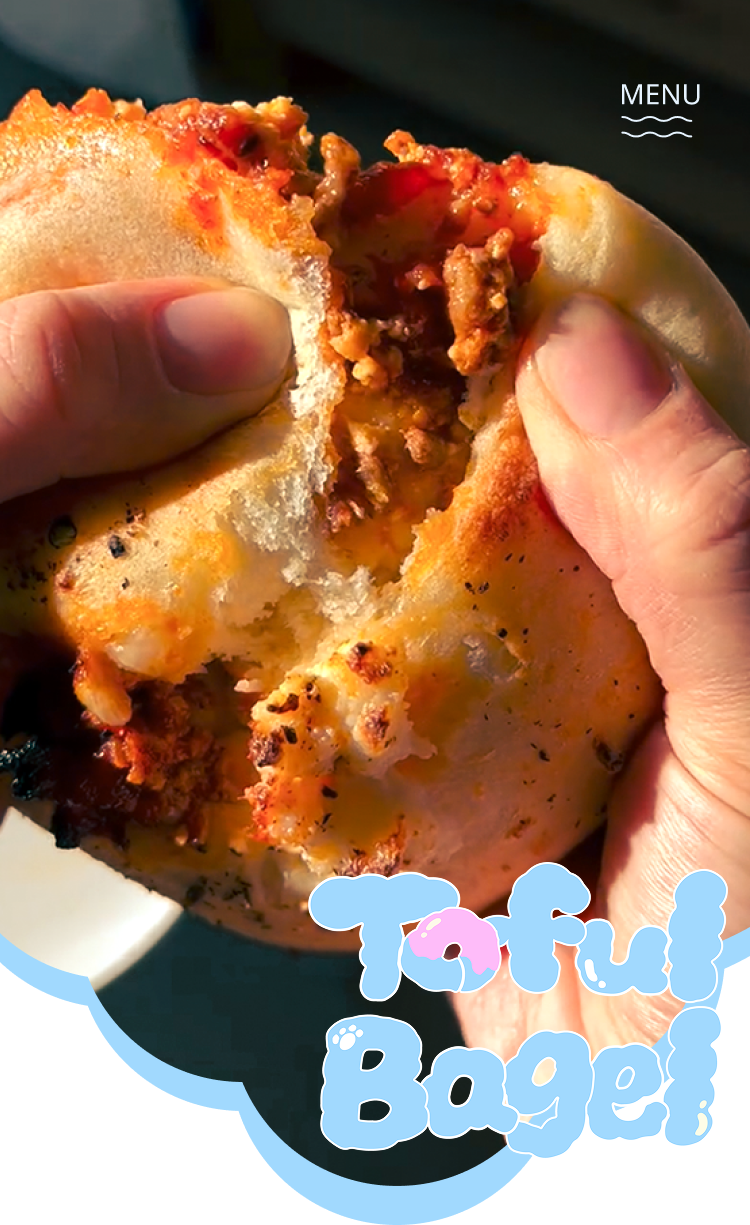
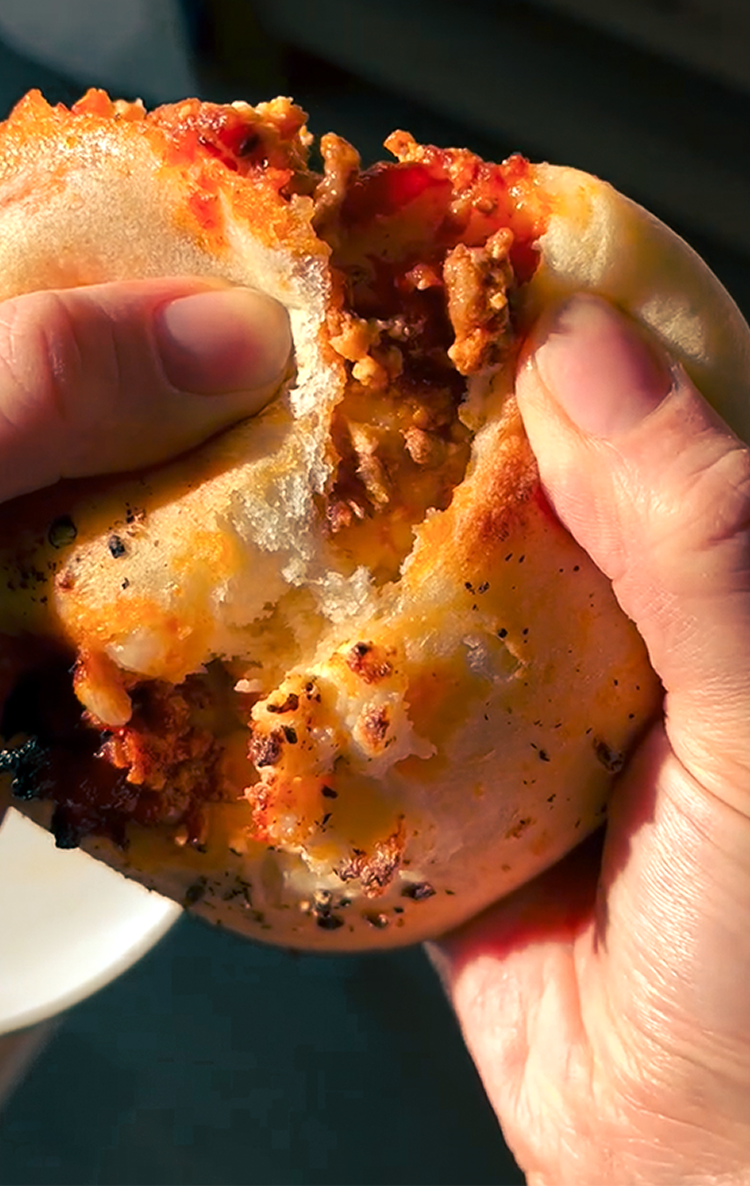
mv almost fix

diff --git a/luca/scss/style.scss b/luca/scss/style.scss
@@ -111,9 +111,17 @@ section{
 // Base styles
 
 header{
-  .mv{
-    margin-bottom: 4em;
-  }
+.mask {
+  width: 100%;
+  height: auto;
+  -webkit-clip-path: url(#svgPath);
+  clip-path: url(#svgPath);
+  object-fit: cover;
+}
+
+.shape {
+  height: 0; // hide the SVG visually
+}
 }
 
 //introduction
@@ -123,9 +131,9 @@ header{
   &::before {
     content: "";
     position: absolute;
-    top: -110px;
-    left: -70px;
-    width: 90%;
+    top: -190px;
+    left: -30px;
+    width: 230px;
     height: 100px;
     background: url('../img/intro_fuwa.png') no-repeat center center;
     background-size: contain;
@@ -135,10 +143,10 @@ header{
   &::after {
     content: "";
     position: absolute;
-    top: -110px;
-    right: -100px;
-    width: 90%;
-    height: 120px;
+    top: -100px;
+    right: -40px;
+    width: 207px;
+    height: 80px;
     background: url('../img/intro_mochi.png') no-repeat center center;
     background-size: contain;
     z-index: 10;

diff --git a/luca/css/style.css b/luca/css/style.css
@@ -79,8 +79,15 @@ section {
 		display: block;
 }
 
-header .mv {
-		margin-bottom: 4em;
+header .mask {
+		width: 100%;
+		height: auto;
+		clip-path: url(#svgPath);
+		-o-object-fit: cover;
+		   object-fit: cover;
+}
+header .shape {
+		height: 0;
 }
 
 .intro_outer {
@@ -89,9 +96,9 @@ header .mv {
 .intro_outer::before {
 		content: "";
 		position: absolute;
-		top: -110px;
-		left: -70px;
-		width: 90%;
+		top: -190px;
+		left: -30px;
+		width: 230px;
 		height: 100px;
 		background: url("../img/intro_fuwa.png") no-repeat center center;
 		background-size: contain;
@@ -100,10 +107,10 @@ header .mv {
 .intro_outer::after {
 		content: "";
 		position: absolute;
-		top: -110px;
-		right: -100px;
-		width: 90%;
-		height: 120px;
+		top: -100px;
+		right: -40px;
+		width: 207px;
+		height: 80px;
 		background: url("../img/intro_mochi.png") no-repeat center center;
 		background-size: contain;
 		z-index: 10;

diff --git a/luca/index2.html b/luca/index2.html
@@ -33,7 +33,15 @@
 
 <body>
     <header>
-        <h1><img class="mv" src="img/mv.png" alt="toful_bagle" ></h1>
+<img class="mask" src="img/mv.png" alt="Toful Bagel">
+
+<svg class="shape" viewBox="0 0 750 1187.5" xmlns="http://www.w3.org/2000/svg">
+  <clipPath id="svgPath" clipPathUnits="objectBoundingBox">
+    <!-- Rescaled path: MUST be normalized between 0–1 if using objectBoundingBox -->
+    <path d="M0,0v0.789c0.013,0.007,0.027,0.016,0.043,0.024c0.022,0.009,0.047,0.022,0.073,0.027c0.032,0.053,0.112,0.09,0.206,0.091c0.034,0.052,0.116,0.089,0.211,0.089s0.177-0.037,0.211-0.089c0.098-0.006,0.179-0.045,0.204-0.101c0.002-0.004,0.004-0.008,0.005-0.012c0.018-0.003,0.034-0.007,0.049-0.014V0H0Z" />
+  </clipPath>
+</svg>
+
     </header>
 
     <main class="container">
